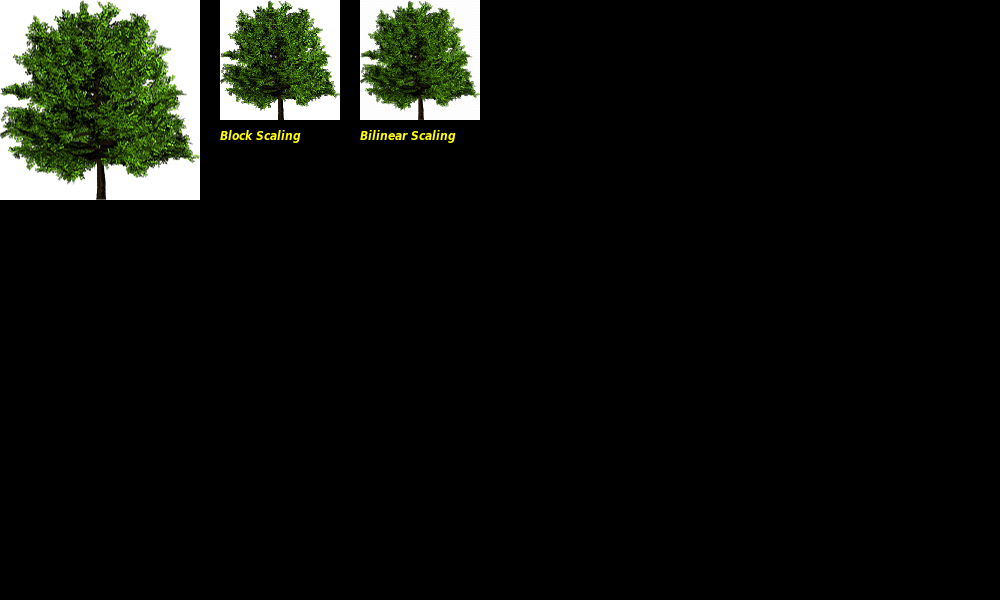
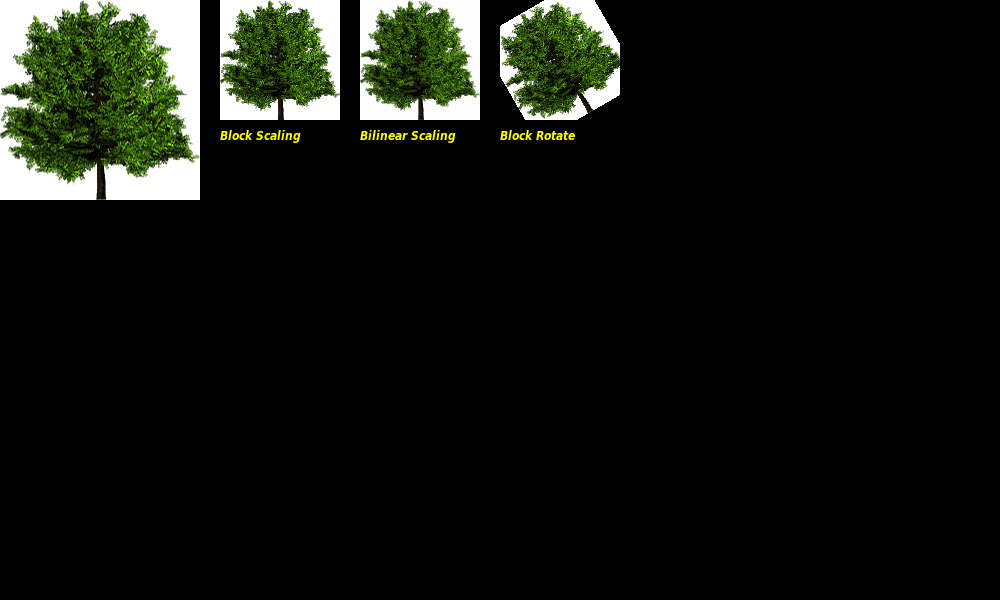
Added block image rotation

Changed region(s): [[0.496, 0.0, 0.62, 0.24]]

diff --git a/src/Pt-Gfx/tests/ImageScale4.h b/src/Pt-Gfx/tests/ImageScale4.h
@@ -253,12 +253,15 @@ void blockScale4(
     OutIterT to,   Pt::ssize_t toWidth,   Pt::ssize_t toHeight
 )
 {
+    // Get the source and destination pointers
     const Pt::uint32_t* src = reinterpret_cast<const Pt::uint32_t*>( from->base() );
           Pt::uint32_t* dst = reinterpret_cast<      Pt::uint32_t*>( to  ->base() );
 
+    // Calculate the increment factors
     const Pt::uint32_t incX = 65536 * fromWidth  / toWidth;
     const Pt::uint32_t incY = 65536 * fromHeight / toHeight;
 
+    // Walk through the pixels
     Pt::uint32_t itrY = 0;
     for(Pt::ssize_t y = 0; y < toHeight; ++y) {
         const Pt::int32_t  srcY = ( (itrY + 32768) >> 16 ) * fromWidth;
@@ -277,9 +280,11 @@ void bilinearScale4(
     OutIterT to,   Pt::ssize_t toWidth,   Pt::ssize_t toHeight
 )
 {
+    // Get the source and destination pointers
     const Pt::uint32_t* src = reinterpret_cast<const Pt::uint32_t*>( from->base() );
           Pt::uint32_t* dst = reinterpret_cast<      Pt::uint32_t*>( to  ->base() );
 
+    // Calculate the increment factors
 #if defined(PT_GFX_USE_SSE4P1) || defined(PT_GFX_USE_SSE2)
     typedef float ValueT;
     const ValueT incX = (ValueT) fromWidth  / toWidth;
@@ -290,6 +295,7 @@ void bilinearScale4(
     const ValueT incY = 65536 * fromHeight / toHeight;
 #endif
 
+    // Walk through the pixels
     ValueT itrY = 0;
     for(Pt::ssize_t y = 0; y < toHeight; ++y) {
         ValueT itrX = 0;
@@ -297,6 +303,69 @@ void bilinearScale4(
             *dst++ = bsGetPixel(src, fromWidth, itrX, itrY);
             itrX += incX;
         }
+        itrY += incY;
+    }
+}
+
+
+template <typename InIterT, typename OutIterT>
+void blockRotate4(
+    InIterT      from, Pt::ssize_t fromWidth, Pt::ssize_t fromHeight,
+    OutIterT     to,   Pt::ssize_t toWidth,   Pt::ssize_t toHeight,
+    float        deg,
+    const Color& cfil = Color::fromRgb8(0, 0, 0, 255)
+)
+{
+    // Calculate the filler color
+    const Pt::uint32_t  fil = ( Pt::uint32_t(cfil.alpha() & 0xFF00) << 16 ) |
+                              ( Pt::uint32_t(cfil.red  () & 0xFF00) <<  8 ) |
+                                Pt::uint32_t(cfil.green() & 0xFF00)         |
+                              ( Pt::uint32_t(cfil.blue ()         ) >>  8 );
+
+    // Get the source and destination pointers
+    const Pt::uint32_t* src = reinterpret_cast<const Pt::uint32_t*>( from->base() );
+          Pt::uint32_t* dst = reinterpret_cast<      Pt::uint32_t*>( to  ->base() );
+
+    // Calculate the increment factors
+    const Pt::int32_t incX = 65536 * fromWidth  / toWidth;
+    const Pt::int32_t incY = 65536 * fromHeight / toHeight;
+
+    // Calculate the center positions
+    const Pt::int32_t midX = 32768 * fromWidth;
+    const Pt::int32_t midY = 32768 * fromHeight;
+
+    // Calculate the sine and cosine values
+    const double      r = -deg * (M_PI / 180);
+    const Pt::int32_t s = Pt::Gfx::Math::zrint( 256 * ::sin(r) );
+    const Pt::int32_t c = Pt::Gfx::Math::zrint( 256 * ::cos(r) );
+
+    // Walk through the row pixels
+    Pt::int32_t itrY = 0;
+    for(Pt::ssize_t y = 0; y < toHeight; ++y) {
+        // Walk through the column pixels
+        Pt::int32_t itrX = 0;
+        for(Pt::ssize_t x = 0; x < toWidth; ++x) {
+            // Get the centered source coordinates
+            const Pt::int32_t srcX = (itrX - midX) >> 8;
+            const Pt::int32_t srcY = (itrY - midY) >> 8;
+            // Rotate the coordinates and offset them back
+            const Pt::int32_t rotX =  c * srcX + s * srcY + midX;
+            const Pt::int32_t rotY = -s * srcX + c * srcY + midY;
+            // Calculate the read coordinates
+            const Pt::uint32_t getX = (rotX + 32768) >> 16;
+            const Pt::uint32_t getY = (rotY + 32768) >> 16;
+            // Check if the any of the coordinates is outside the image
+            if(getX < 0 || getY < 0 || getX >= fromWidth || getY >= fromHeight) {
+                *dst++ = fil;
+            }
+            // The coordinates are inside the image
+            else {
+                *dst++ = src[getY * fromWidth + getX];
+            }
+            // Increment the iterator
+            itrX += incX;
+        }
+        // Increment the iterator
         itrY += incY;
     }
 }

diff --git a/src/Pt-Gfx/tests/ImagePainterTest2_ImageOperation.cpp b/src/Pt-Gfx/tests/ImagePainterTest2_ImageOperation.cpp
@@ -14,9 +14,10 @@ static void testImageOperation(const char* title, Image& image, Painter& painter
     painter.drawImage(PointF(x, y), textureWithWhiteBackground);
     x += textureWithWhiteBackground.width() + 20;
 
-    // Scaled image (block scale)
+    // Scaled and rotated image (block scale)
     Image scaledImage( textureWithWhiteBackground.format(), Size(120, 120) );
 
+    // Block scale
     blockScale4(
         textureWithWhiteBackground.begin(), textureWithWhiteBackground.width(), textureWithWhiteBackground.height(),
         scaledImage               .begin(), scaledImage               .width(), scaledImage               .height()
@@ -25,7 +26,7 @@ static void testImageOperation(const char* title, Image& image, Painter& painter
     painter.drawText( PointF(x, y + scaledImage.height() + 20), "Block Scaling" );
     x += scaledImage.width() + 20;
 
-    // Scaled image (bilinear scale)
+    // Bilinear scale
     bilinearScale4(
         textureWithWhiteBackground.begin(), textureWithWhiteBackground.width(), textureWithWhiteBackground.height(),
         scaledImage               .begin(), scaledImage               .width(), scaledImage               .height()
@@ -34,5 +35,16 @@ static void testImageOperation(const char* title, Image& image, Painter& painter
     painter.drawText( PointF(x, y + scaledImage.height() + 20), "Bilinear Scaling" );
     x += scaledImage.width() + 20;
 
+    // Block rotate
+    blockRotate4(
+        textureWithWhiteBackground.begin(), textureWithWhiteBackground.width(), textureWithWhiteBackground.height(),
+        scaledImage               .begin(), scaledImage               .width(), scaledImage               .height(),
+        30
+    );
+    painter.drawImage(PointF(x, y), scaledImage);
+    painter.drawText( PointF(x, y + scaledImage.height() + 20), "Block Rotate" );
+    x += scaledImage.width() + 20;
+
     sdlPreviewRGB888Buffer(title, image.data(), image.width(), image.height(), !!ip2);
+
 }

diff --git a/src/Pt-Gfx/tests/ImagePainterTest2_Benchmark.cpp b/src/Pt-Gfx/tests/ImagePainterTest2_Benchmark.cpp
@@ -326,10 +326,17 @@ static void doBenchmarkImageOperation()
     // Image scaling
     if(BENCHMARK_RESULT_HTML || BENCHMARK_IMAGE_OPERATION) {
         time1 = benchImageScalingBlock(BENCHMARK_LOOP_COUNT);
-        std::clog << "    Image scaling 4 (block   )                       = " << std::setw(6) << time1 << std::endl;
+        std::clog << "    Image scaling  4 (block   )                      = " << std::setw(6) << time1 << std::endl;
         time2 = benchImageScalingBilinear(BENCHMARK_LOOP_COUNT);
-        std::clog << "    Image scaling 4 (bilinear)                       = " << std::setw(6) << time2
+        std::clog << "    Image scaling  4 (bilinear)                      = " << std::setw(6) << time2
                   << " (" << std::setw(6) << std::setprecision(3) << (time2 / time1) << ")" << std::setprecision(0) << std::endl;
+        std::clog << std::endl;
+    }
+
+    // Image rotation
+    if(BENCHMARK_RESULT_HTML || BENCHMARK_IMAGE_OPERATION) {
+        time1 = benchImageRotationBlock(BENCHMARK_LOOP_COUNT);
+        std::clog << "    Image rotation 4 (block   )                      = " << std::setw(6) << time1 << std::endl;
         if(!BENCHMARK_RESULT_HTML) std::clog << std::endl;
     }
 }

diff --git a/src/Pt-Gfx/tests/ImagePainterTest2_Benchmark_ImageOperation.cpp b/src/Pt-Gfx/tests/ImagePainterTest2_Benchmark_ImageOperation.cpp
@@ -41,3 +41,26 @@ static size_t benchImageScalingBilinear(int loopCount)
     sum /= loopCount;
     return sum;
 }
+
+static size_t benchImageRotationBlock(int loopCount)
+{
+    size_t sum = 0;
+
+    Image scaledImage( textureWithWhiteBackground.format(), Size(120, 120) );
+
+    for(int i = 0; i < loopCount; ++i) {
+        Pt::System::Clock clock;
+        clock.start();
+
+        blockRotate4(
+            textureWithWhiteBackground.begin(), textureWithWhiteBackground.width(), textureWithWhiteBackground.height(),
+            scaledImage               .begin(), scaledImage               .width(), scaledImage               .height(),
+            30
+        );
+
+        sum += clock.stop().toUSecs();
+    }
+
+    sum /= loopCount;
+    return sum;
+}
